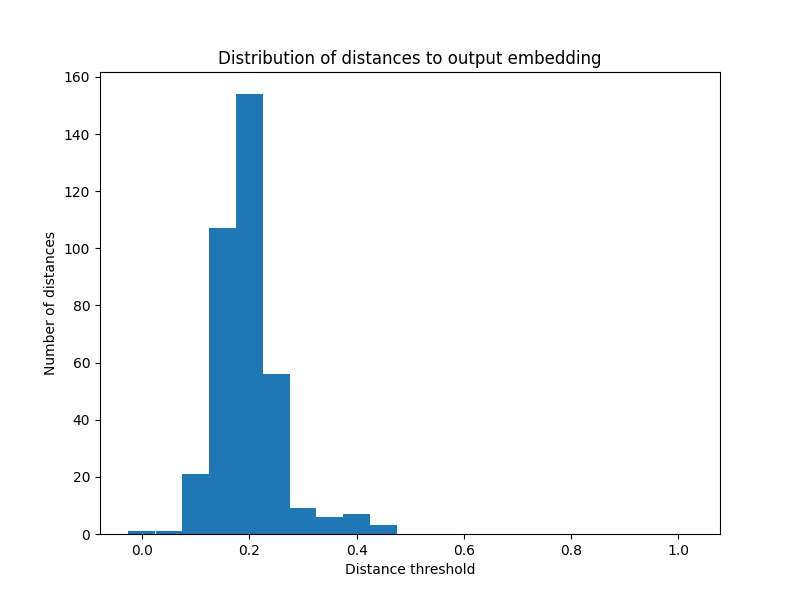
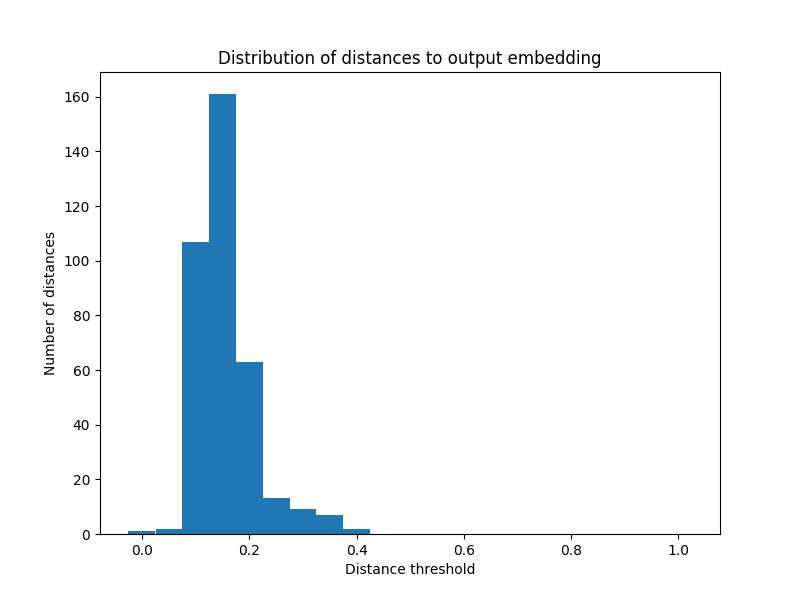
some more plots, cache

diff --git a/main.py b/main.py
@@ -11,10 +11,11 @@ import matplotlib.pyplot as plt
 import plotting
 from clamp_utils import *
 from transformers import AutoTokenizer
+import pickle
 
 train_data_path = "folkrnn/data/ONeillsJigs_parsed_wot"
-embedding = "clamp" # options: "clamp", "clap", "muq", "folkrnn", "random"
-methods = ["euclidean", "cosine"] # options: "euclidean", "cosine", "cl", "matching", "hamming", "jaccard", "orchini", "sorencen-dice", "tanimoto", "tucker", "tversky"
+embedding = "clap" # options: "clamp", "clap", "muq", "folkrnn", "random"
+methods = ["cosine"] # options: "euclidean", "cosine", "cl", "matching", "hamming", "jaccard", "orchini", "sorencen-dice", "tanimoto", "tucker", "tversky"
 CLAMP_MODEL_NAME = "sander-wood/clamp-small-512"
 
 
@@ -67,18 +68,37 @@ def load_wav():
 
     return wav_fname
 
-def embed(tunes, wav_folder, embedding):
+def embed(tunes, wav_folder, embedding, use_cache = True):
     embedding = embedding.lower()
-    if embedding == "clamp":
-        return clamp(tunes)
-    if embedding == "clap":
-        return clap(wav_folder)
-    if embedding == "muq":
-        return muq(wav_folder)
-    if embedding == "folkrnn":
-        return folkrnn_embed(tunes)
-    if embedding == "random":
-        return [[2*random.random() - 1 for _ in range(512)] for _ in tunes]
+
+    # check if the embedded data exists in cache, if so load it instead of recomputing
+    if use_cache:
+        cache_folder = os.listdir("cache")
+        print("Found files in cache:", cache_folder)
+
+    if use_cache and  "embedded_data_"+embedding+".pkl" in cache_folder:
+        with open("cache/embedded_data_"+embedding+".pkl", "rb") as f:
+            res = pickle.load(f)
+        print(embedding, "embeddings loaded from cache")
+        return res
+    elif embedding == "clamp":
+        res = clamp(tunes)
+    elif embedding == "clap":
+        res = clap(wav_folder)
+    elif embedding == "muq":
+        res = muq(wav_folder)
+    elif embedding == "folkrnn":
+        res = folkrnn_embed(tunes)
+    elif embedding == "random":
+        res = [[2*random.random() - 1 for _ in range(512)] for _ in tunes]
+    else:
+        raise ValueError("Unsupported embedding method: {}".format(embedding))
+
+    # Store res in cache
+    with open("cache/embedded_data_"+embedding+".pkl", "wb") as f:
+        pickle.dump(res, f)
+
+    return res
     
 def clamp(tunes):
     res = []
@@ -113,13 +133,14 @@ def clap(tune_fname):
 
     fnames = os.listdir(tune_fname)
     tune_fnames = [os.path.join(tune_fname, f) for f in fnames if f.endswith(".wav")]
-    print(f"Loaded wav files for CLAP embedding: ", tune_fnames)
+    n_files = len(tune_fnames)
+
+    print(f"Loaded {n_files} wav files for CLAP embedding")
 
     # Initialize CLAP model
     model = laion_clap.CLAP_Module(enable_fusion=False)
     model.load_ckpt() # download the default pretrained checkpoint.
 
-    n_files = len(tune_fnames)
     print("Extracting CLAP embeddings for {} wav files...".format(n_files))
     i = 0
     for wav_fname in tune_fnames:
@@ -140,7 +161,7 @@ def muq(tune_fname):
 
     fnames = os.listdir(tune_fname)
     tune_fnames = [os.path.join(tune_fname, f) for f in fnames if f.endswith(".wav")]
-    print("Loaded wav files for MuQ-MuLan embedding: ", tune_fnames)
+    print(f"Loaded {n_files} wav files for MuQ-MuLan embedding")
 
     # Initialize MuQ-MuLan model
     device = 'cpu'
@@ -164,6 +185,9 @@ def muq(tune_fname):
         i += 1
         if i % 10 == 0:
             print("Extracted MuQ-MuLan embeddings for {} / {} wav files".format(i, n_files))
+    #TODO actually use this
+    with open("muq_embeddings.txt", "w") as f:
+        f.write(str(res))
     return res
 
 def folkrnn_embed(tunes):
@@ -246,6 +270,13 @@ if __name__ == "__main__":
     plotting.plot_embeddings(embedded_data, embedding)
     plotting.plot_embeddings_pca(embedded_data, embedding)
 
+    plotting.plot_pca_pairs(embedded_data, embedding)
+    plotting.plot_pca_variance(embedded_data, embedding)
+
+
+
+    for m in methods:
+        plotting.plot_distance_average(embedded_data, embedding, method=m)
 
     #TODO pick/generate output?
     output = 0 
@@ -256,15 +287,8 @@ if __name__ == "__main__":
 
     out_dists = compute_dist(e_out, embedded_data, methods = methods)
     
-    
-    
-    
-    
-    #for e in embedded_data:
-    #    dist = compute_dist(e, e_out, method = method)
-    #    out_dists.append(dist[method])
 
-    print(out_dists["euclidean"])
+
 
     for m in out_dists.keys():
         plotting.plot_distance_distribution(out_dists[m], embedding+"_"+m)

diff --git a/plotting.py b/plotting.py
@@ -1,6 +1,8 @@
 import matplotlib.pyplot as plt
 import math
 
+from main import compute_dist
+
 
 def plot_embeddings(embeddings, name):
     plt.clf()
@@ -16,9 +18,13 @@ def plot_embeddings(embeddings, name):
 
 
 def plot_embeddings_pca(embeddings, name):
+
     from sklearn.decomposition import PCA
-    pca = PCA(n_components=2)
+    pca = PCA(n_components=5)
     reduced_embeddings = pca.fit_transform(embeddings)
+
+    print("PCA VR:", pca.explained_variance_ratio_)
+
 
     plt.clf()
     plt.figure(figsize=(8, 6))
@@ -30,6 +36,41 @@ def plot_embeddings_pca(embeddings, name):
     plt.ylabel('Principal Component 2')
     plt.grid()
     plt.savefig(f"plots/embeddings_pca_{name}.png")
+
+def plot_pca_variance(embeddings, name):
+    #TODO UHHH this is defenitly wrong
+    from sklearn.decomposition import PCA
+    pca = PCA(n_components=5)
+    pca.fit(embeddings)
+
+    plt.clf()
+    plt.figure(figsize=(8, 6))
+    plt.bar(range(1, 6), pca.explained_variance_ratio_)
+    plt.title(f"PCA Explained Variance Ratio for {name}")
+    plt.xlabel('Principal Component')
+    plt.ylabel('Explained Variance Ratio')
+    plt.grid()
+    plt.savefig(f"plots/pca_variance_{name}.png")
+
+def plot_pca_pairs(embeddings, name):
+    from sklearn.decomposition import PCA
+    pca = PCA(n_components=5)
+    reduced_embeddings = pca.fit_transform(embeddings)
+
+    plt.clf()
+    plt.figure(figsize=(12, 10))
+    for i in range(5):
+        for j in range(i+1, 5):
+            plt.subplot(5, 5, i*5 + j)
+            xx = [e[i] for e in reduced_embeddings]
+            yy = [e[j] for e in reduced_embeddings]
+            plt.scatter(xx, yy, alpha=0.5)
+            plt.xlabel(f'PC {i+1}')
+            plt.ylabel(f'PC {j+1}')
+            plt.grid()
+    plt.suptitle(f"PCA Pairwise Plots for {name}")
+    plt.tight_layout(rect=[0, 0.03, 1, 0.95])
+    plt.savefig(f"plots/pca_pairs_{name}.png")
 
 
 def plot_distance_distribution(dists, name, t_step=0.05):
@@ -47,3 +88,37 @@ def plot_distance_distribution(dists, name, t_step=0.05):
     plt.ylabel("Number of distances")
     plt.title("Distribution of distances to output embedding")
     plt.savefig(f"plots/distance_distribution_{name}.png")
+
+
+def plot_distance_average(embedded_data, name, method = "cosine", t_step=0.05):
+    # Plot the average distance to the output embedding for each distance threshold
+
+    dists = []
+    for e in embedded_data:
+        out_dists = compute_dist(e, embedded_data, method=method)
+        dists.append(out_dists[method])
+
+    N = len(embedded_data)
+
+    t_steps = math.ceil(1/t_step)
+    thresholds = [t_step*i for i in range(t_steps+1)]
+    thresholds[0] = -0.001 # to include the 0 distance
+
+    dist_counts = []
+    for d in dists:
+        dist_counts_d = [sum([1 for de in d if de > t and de <= t+t_step]) for t in thresholds]
+        for i in range(len(dist_counts_d)):
+            if len(dist_counts) <= i:
+                dist_counts.append(dist_counts_d[i])
+            else:
+                dist_counts[i] += dist_counts_d[i]
+
+    for i in range(len(dist_counts)):
+        dist_counts[i] /= N
+
+    plt.clf()
+    plt.bar(thresholds, dist_counts, width=t_step)
+    plt.xlabel("Distance threshold")
+    plt.ylabel("Average distance between embeddings")
+    plt.title("Average distance between embeddings by distance threshold")
+    plt.savefig(f"plots/distance_average_{name}_{method}.png")

diff --git a/abc_processing.py b/abc_processing.py
@@ -1,0 +1,33 @@
+def load_abc(data_path):
+    with open(data_path, 'r') as f:
+        data = f.read()
+
+
+    tokens_set = set(data.split())
+    start_symbol, end_symbol = '<s>', '</s>'
+    tokens_set.update({start_symbol, end_symbol})
+
+    idx2token = list(tokens_set)
+    vocab_size = len(idx2token)
+    print('vocabulary size:', vocab_size)
+    token2idx = dict(zip(idx2token, range(vocab_size)))
+    tunes = data.split('\n\n')
+
+    print(tunes[0])
+    print()
+    print(idx2token)
+    print()
+    print(token2idx)
+
+    return tunes, idx2token, token2idx
+
+
+tunes, _, _ = load_abc("data/ONeillsJigs_parsed_wot_copy")
+
+
+with open("data/ONeillsJigs_labelled", 'w') as f:
+    i = 0
+    for tune in tunes:
+        i += 1
+        f.write("X: " + str(i) + "\n")
+        f.write(tune + "\n\n")
